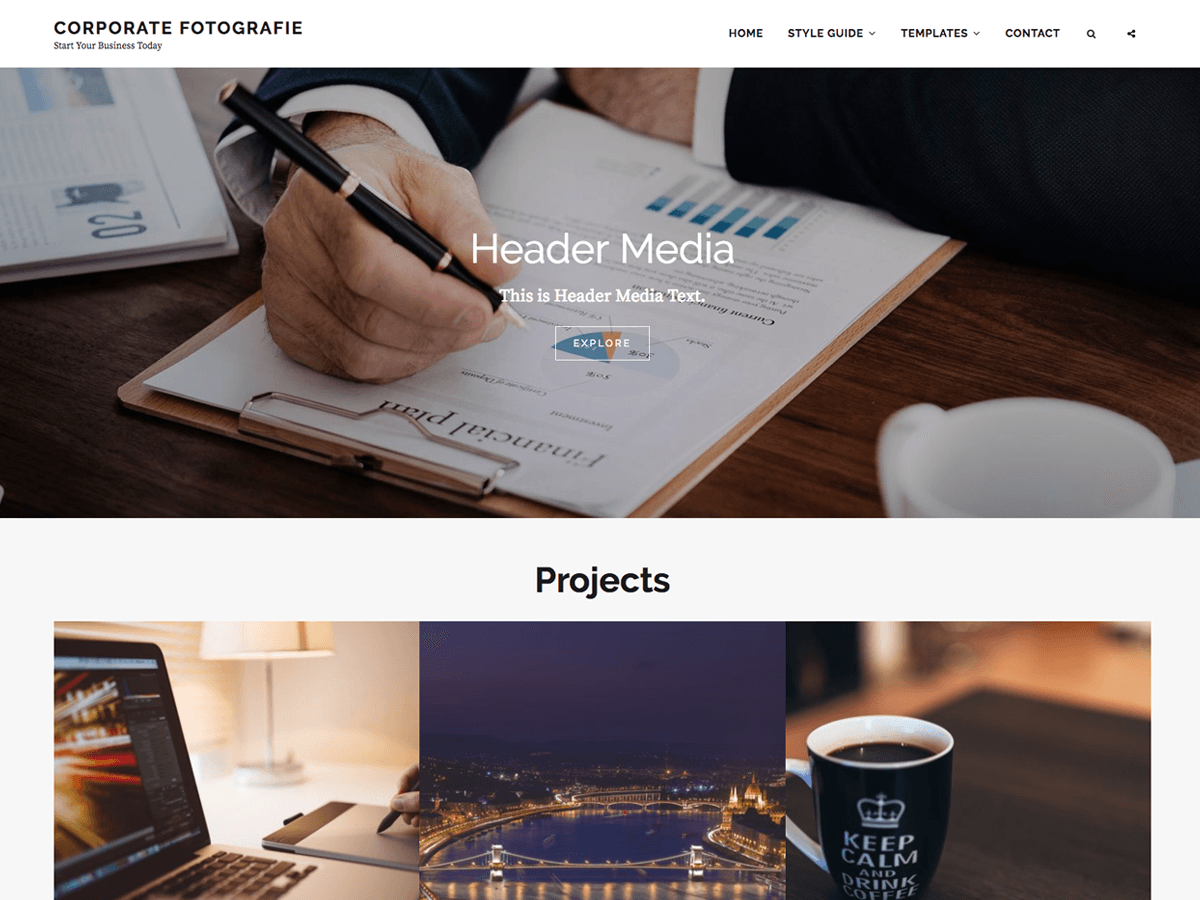
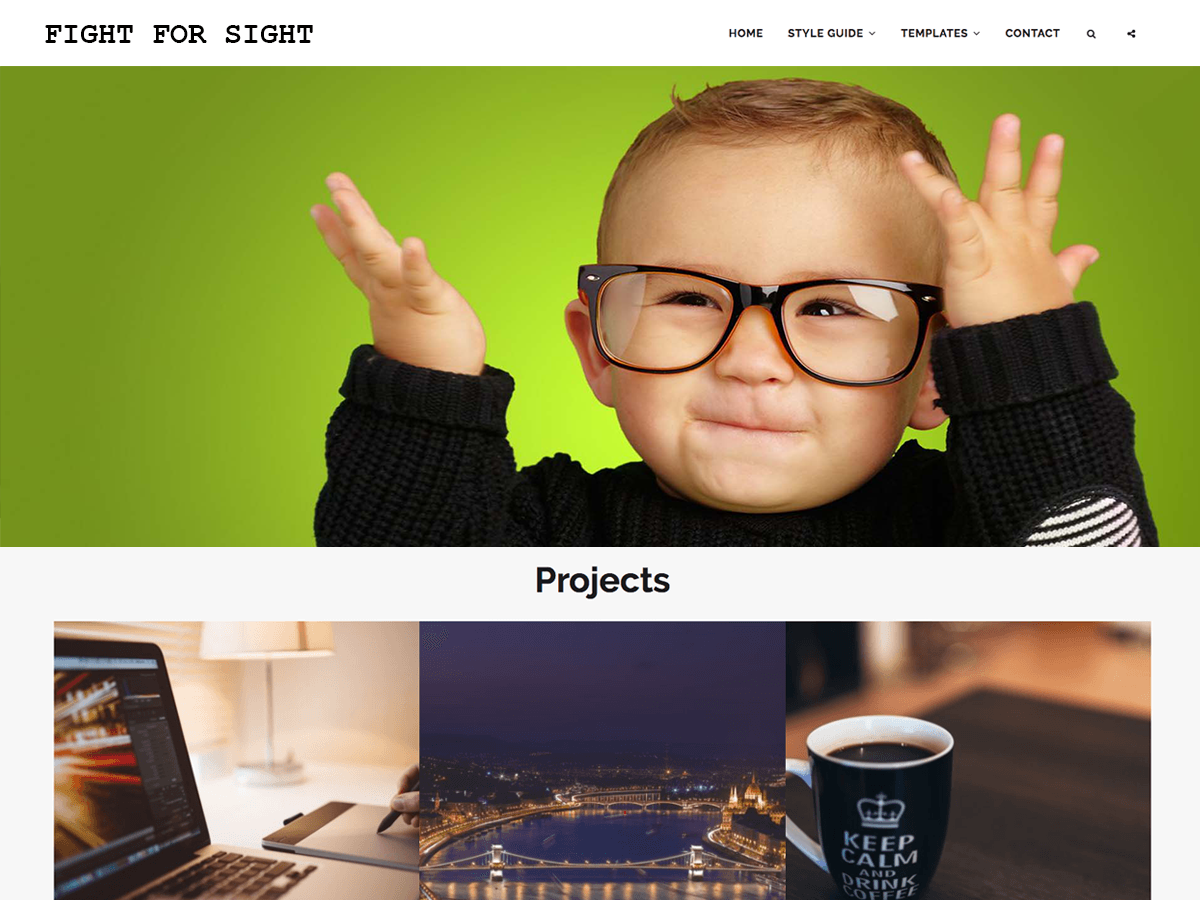
changing theme name and image that appears in Wordpress

diff --git a/style.css b/style.css
@@ -1,9 +1,9 @@
 /*
-Theme Name: Corporate Fotografie
+Theme Name: Corp Foto FFS
 Theme URI: https://catchthemes.com/themes/corporate-fotografie/
-Author: Catch Themes
+Author: Catch Themes + Noreen Wu
 Author URI: https://catchthemes.com/
-Description: Corporate Fotografie – A Free Blog and Corporate WordPress theme has been specially crafted to put your website in the limelight by focusing more on the content area. It is a child theme of our popular Photography WordPress Theme "Fotografie". Corporate Fotografie comes with an array of key features for your business website — such as Header Media, Sticky Menu, Portfolio, Hero Content, Featured Content and more — to stand out among others. Corporate Fotografie sure is dedicated as a theme for Blog and Corporates, but it isn’t limited; it can work well for any range of websites. With WooCommerce integration, you can create an awesome online shopping portal and since it is a child theme of a photography WordPress theme, it inherits features that fit for a photography website as well. Install Corporate Fotografie for free and make your business website distinct and noticeable. This theme is translation ready. For more details, check out Theme page at https://catchthemes.com/themes/corporate-fotografie/, Support at https://catchthemes.com/support/ and Demo at https://catchthemes.com/demo/corporate-fotografie/
+Description: Corporate Fotografie – A Free Blog and Corporate WordPress theme has been specially crafted to put your website in the limelight by focusing more on the content area. It is a child theme of our popular Photography WordPress Theme "Fotografie". Corporate Fotografie comes with an array of key features for your business website — such as Header Media, Sticky Menu, Portfolio, Hero Content, Featured Content and more — to stand out among others. Corporate Fotografie sure is dedicated as a theme for Blog and Corporates, but it isn’t limited; it can work well for any range of websites. With WooCommerce integration, you can create an awesome online shopping portal and since it is a child theme of a photography WordPress theme, it inherits features that fit for a photography website as well. Install Corporate Fotografie for free and make your business website distinct and noticeable. This theme is translation ready. For more details, check out Theme page at https://catchthemes.com/themes/corporate-fotografie/, Support at https://catchthemes.com/support/ and Demo at https://catchthemes.com/demo/corporate-fotografie/ (now being tweaked for FFS, 2019)
 Template: fotografie
 Version: 1.0.2
 License: GNU General Public License v3 or later
